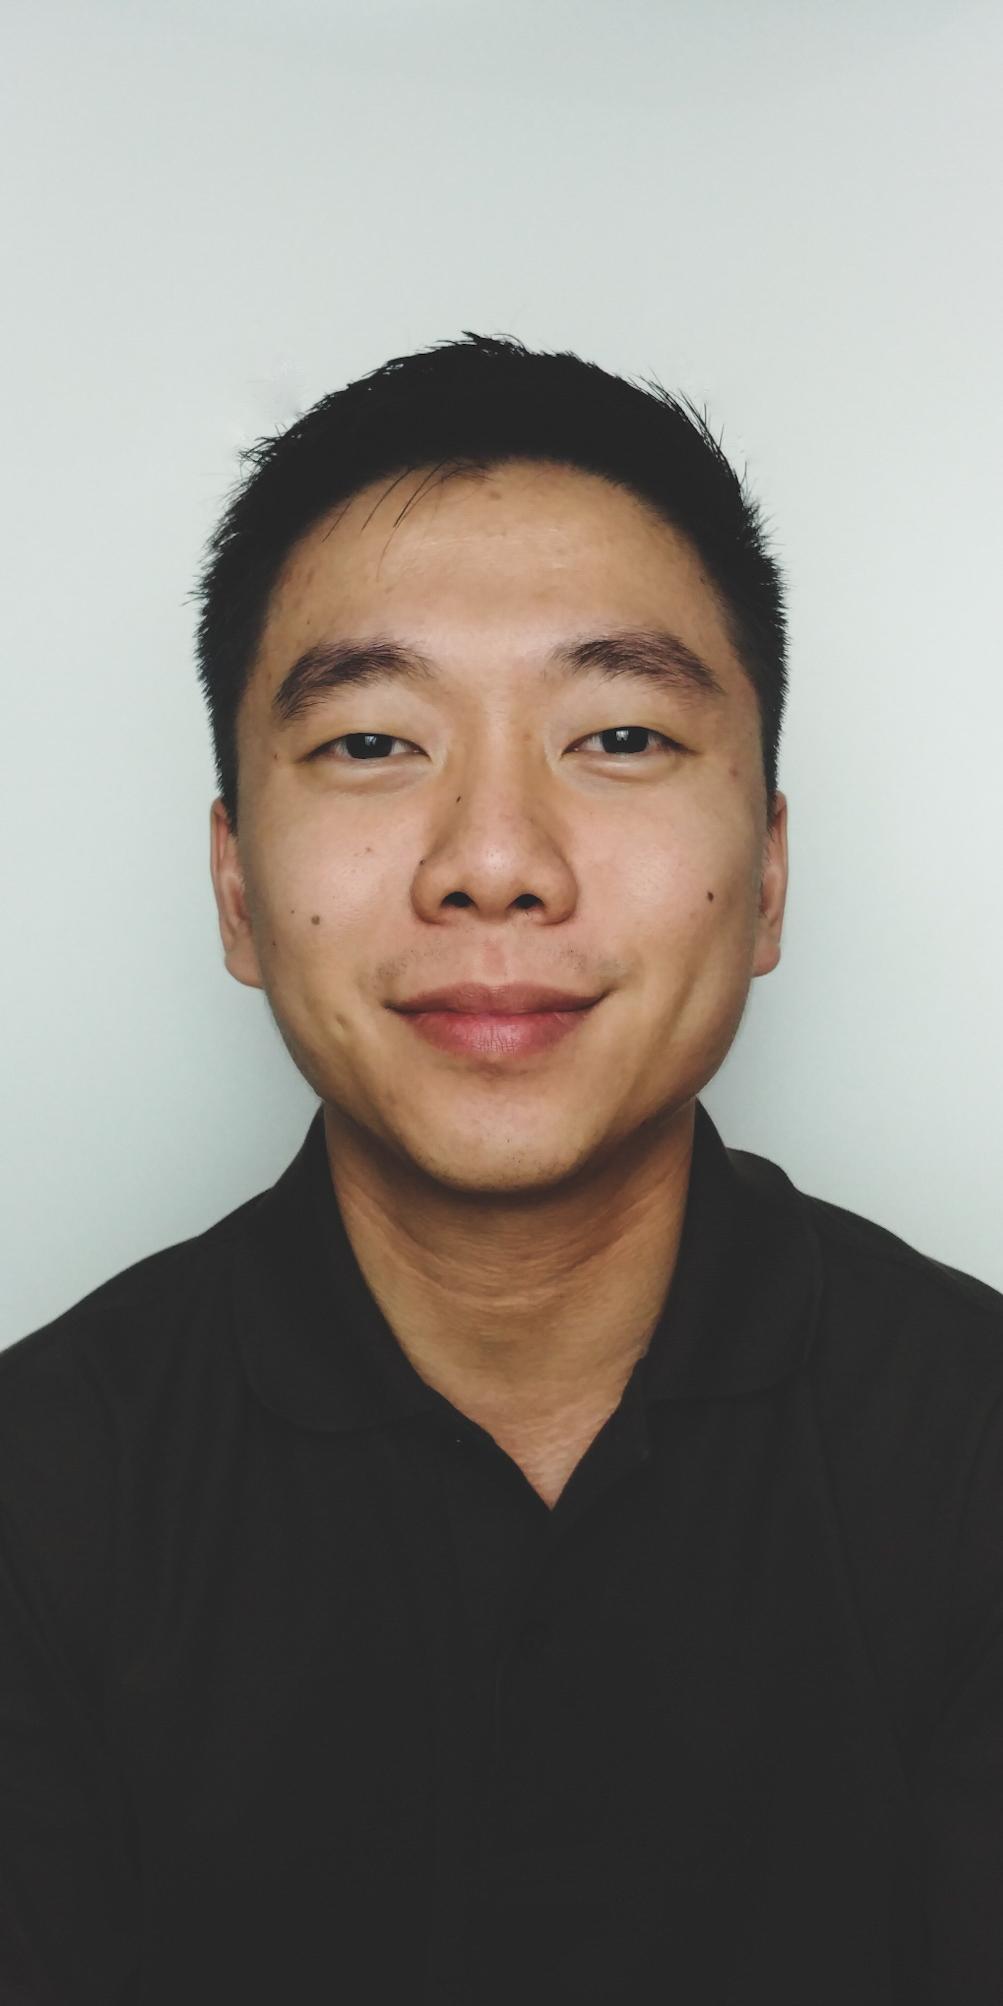
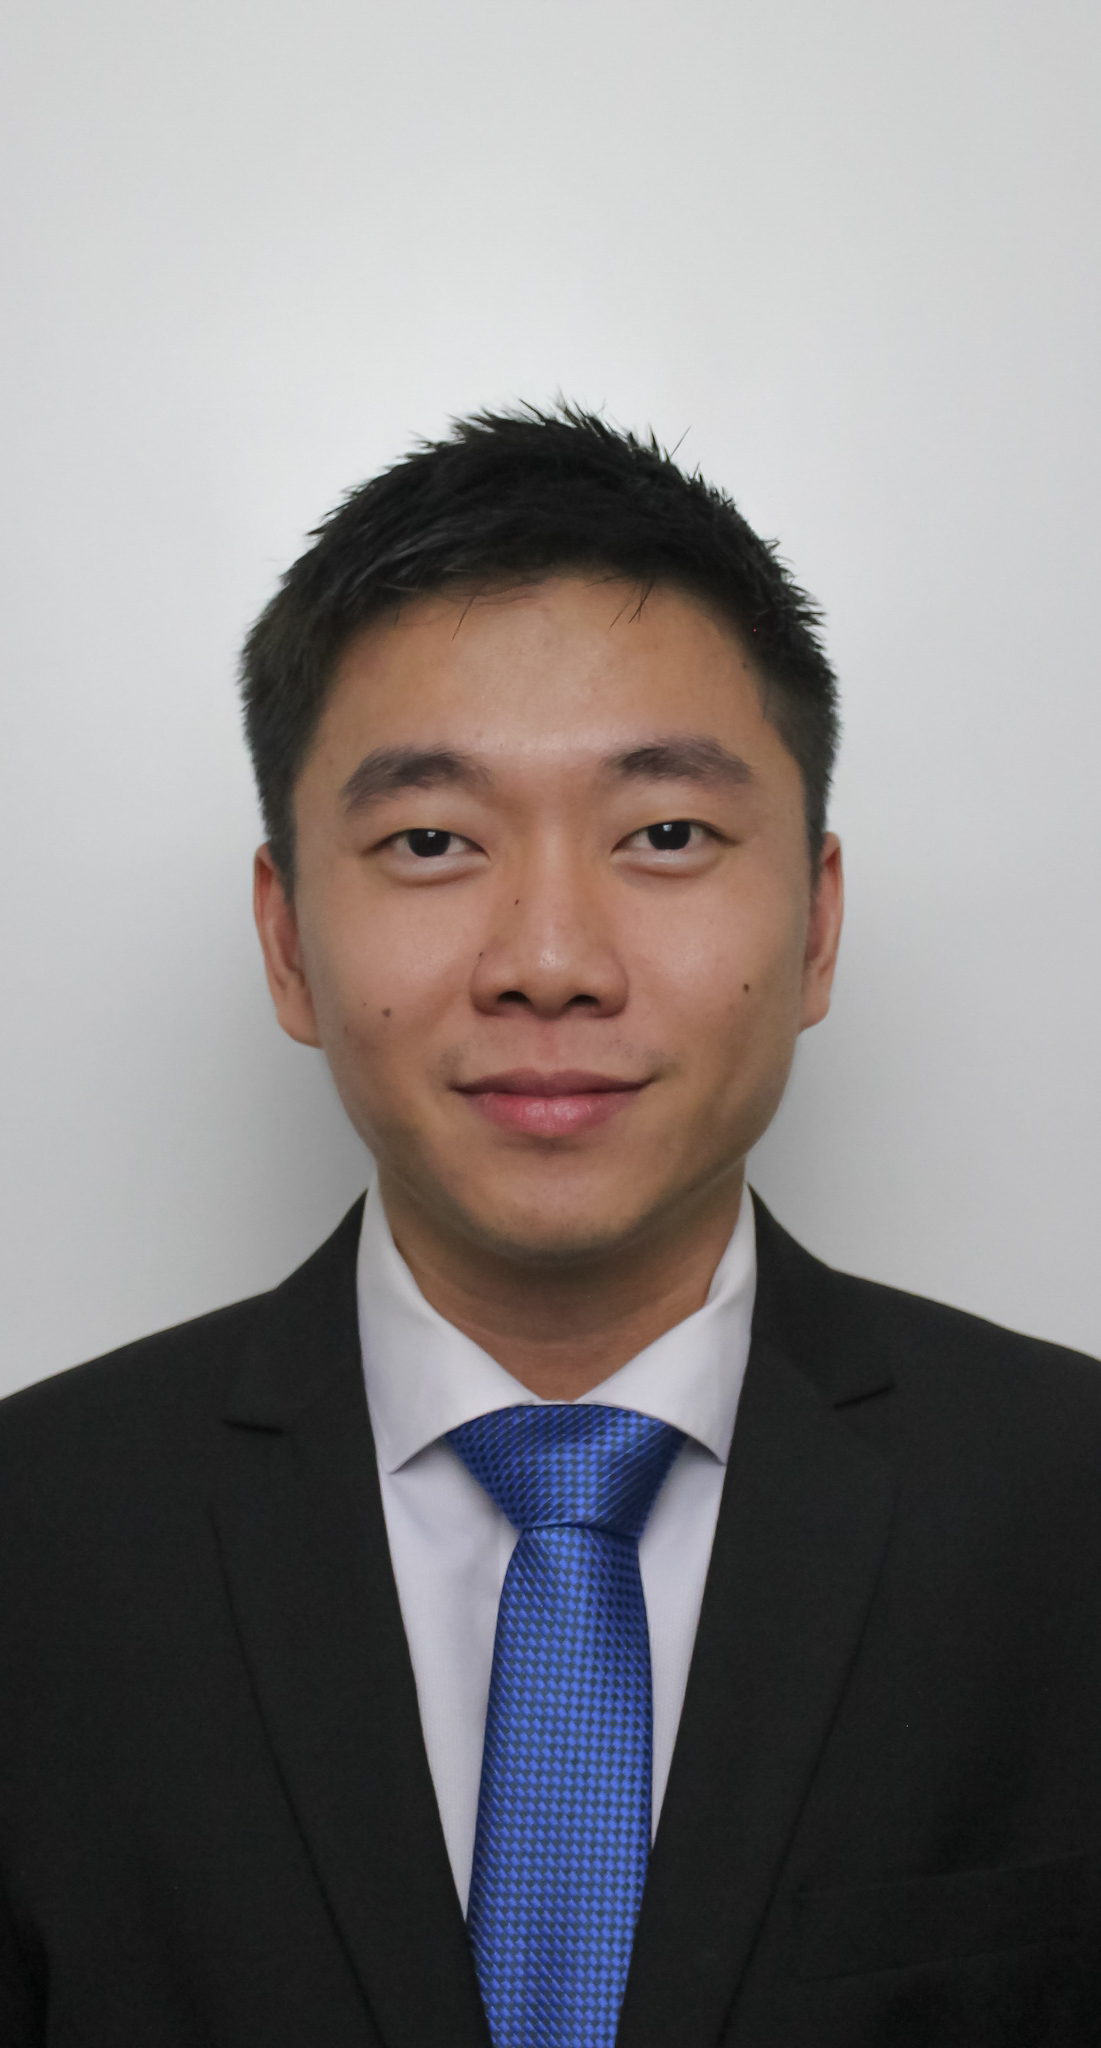
Update Photo & Languages

diff --git a/index.html b/index.html
@@ -91,6 +91,20 @@
 						<table>
 							<tr>
 								<td class="title">
+									<b class="blue">LANGUAGES</b>
+								</td>
+							</tr>
+							<tr class="spacer"><td></td></tr>
+						</table>
+						<table>
+							<tr><td>&#8226; Bahasa Indonesia</td></tr>
+							<tr><td>&#8226; English</td></tr>
+							<tr class="spacer"><td></td></tr>
+							<tr class="spacer"><td></td></tr>
+						</table>
+						<table>
+							<tr>
+								<td class="title">
 									<b class="blue">SOFT SKILLS</b>
 								</td>
 							</tr>
